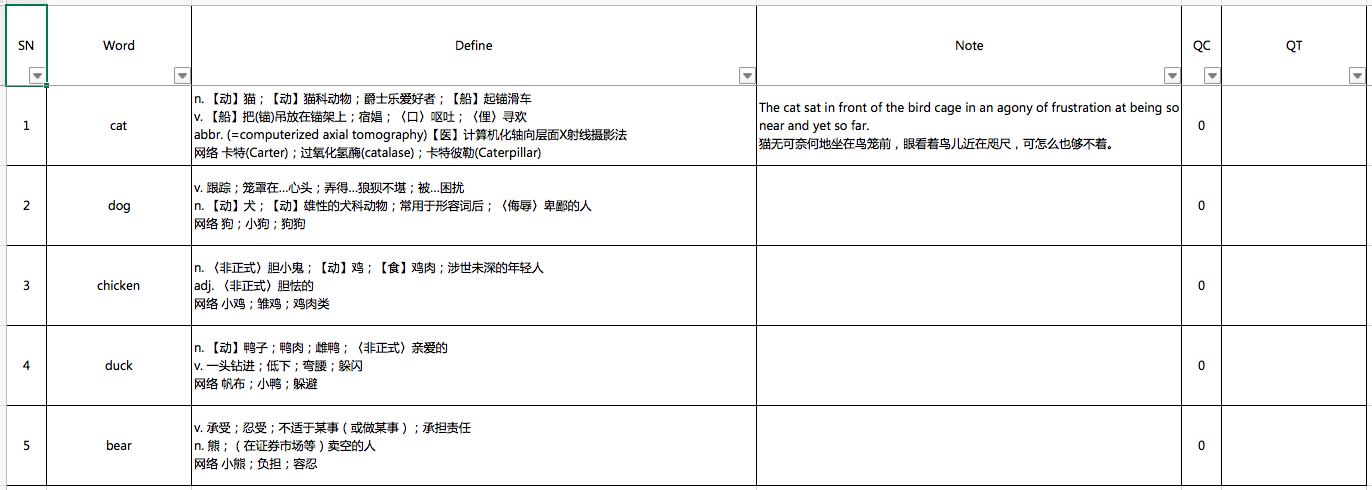
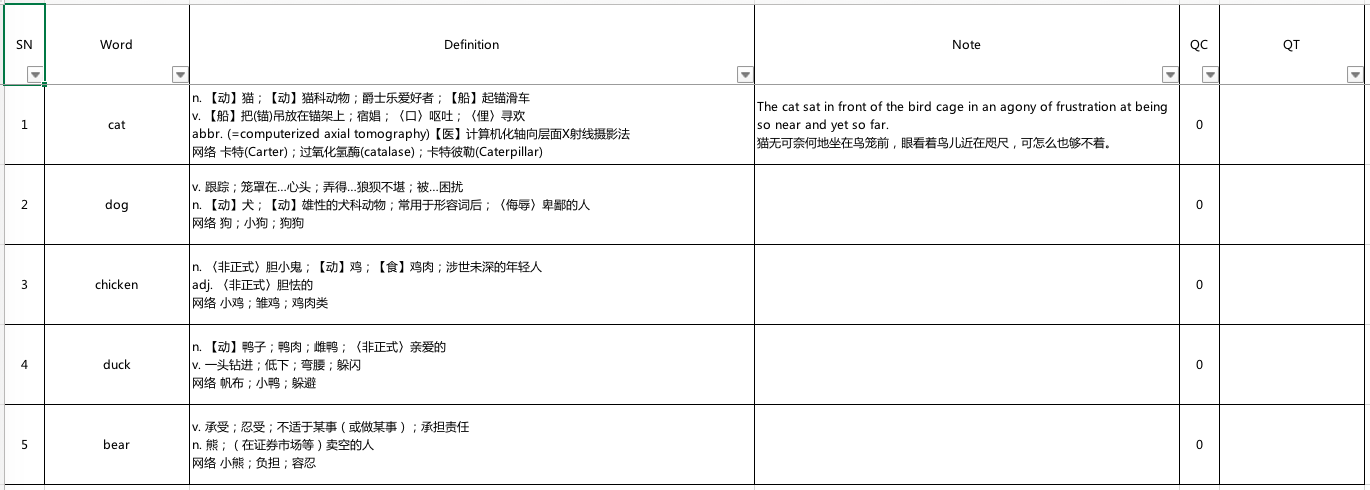
Update

diff --git a/README.md b/README.md
@@ -20,7 +20,7 @@ For example, in *basic query*, input word "cat" and data of the line 1 will be s
 
 #### 2.2. Advanced Query (Keyword Match)
 
-If the word **is contained by the content in cells at columns "Word", "Define" or "Note" in a line**, the line will be selected.
+If the word **is contained by the content in cells at columns "Word", "Definition" or "Note" in a line**, the line will be selected.
 
 For example, in *advanced query*, input word "e" and the data of line 1, 3 and 5 will be selected.
 

diff --git a/README.zh-Hans.md b/README.zh-Hans.md
@@ -20,7 +20,7 @@
 
 #### 2.2. 高级查询（关键字匹配）
 
-如果查询词**被包含在列“Word”、“Define”或“Note”中的某些单元格中**，那么这些行的数据会被选出。
+如果查询词**被包含在列“Word”、“Definition”或“Note”中的某些单元格中**，那么这些行的数据会被选出。
 
 例如：对查询词“e”进行*高级查询*，第1、3、5行的数据会被选出。
 
